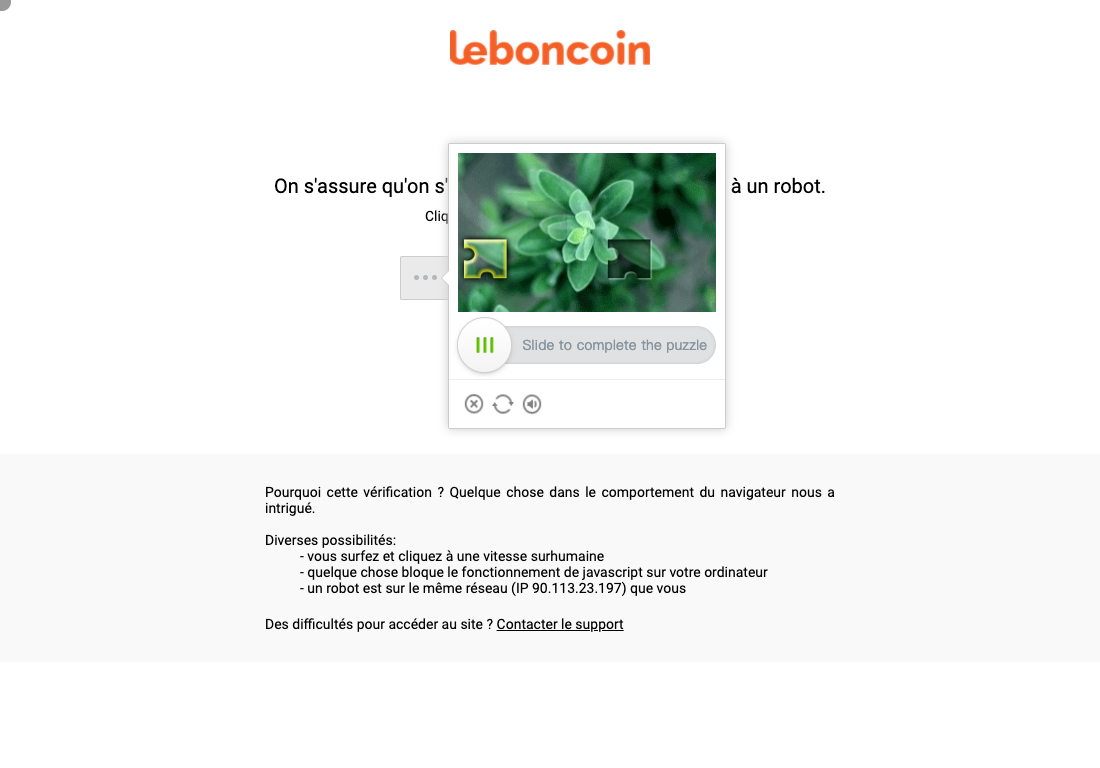
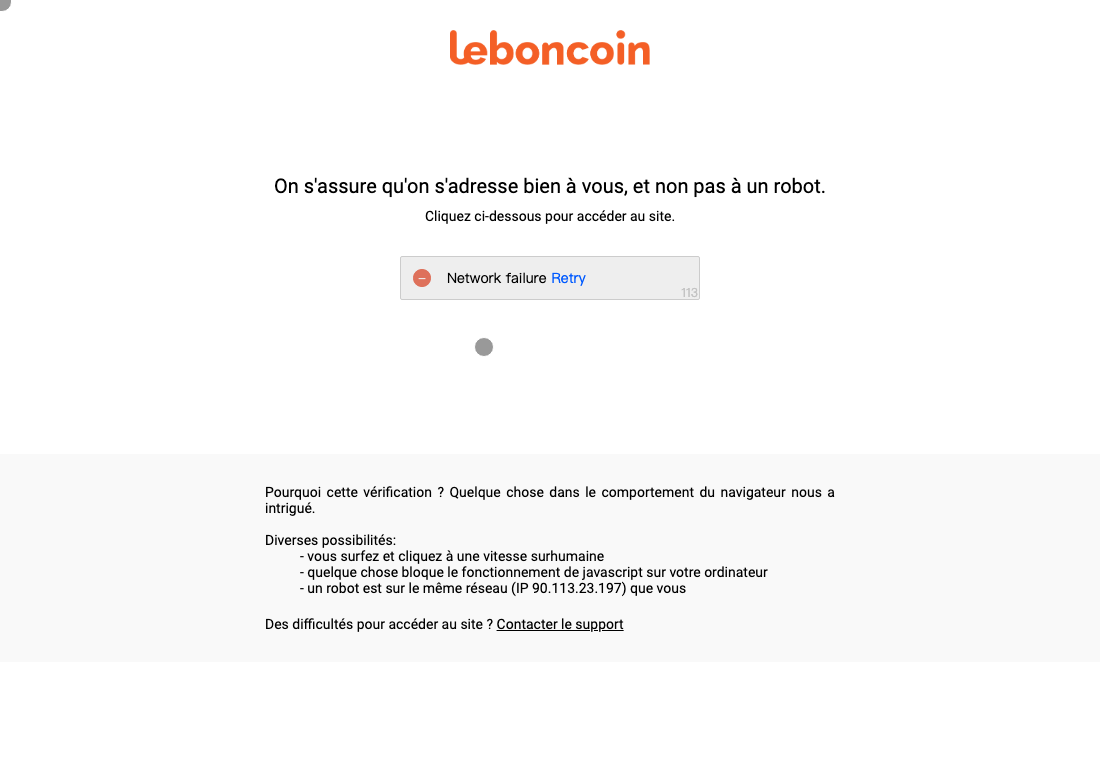
improve

Changed region(s): [[0.3709, 0.1875, 0.68, 0.5625], [0.5564, 0.0625, 0.5873, 0.0938], [0.4327, 0.0625, 0.4636, 0.0938]]

diff --git a/utils/captcha.js b/utils/captcha.js
@@ -21,6 +21,9 @@ function captchaNeedSlide(frame) {
                 }
                 await resolve(true)
             })
+            .catch((e) => {
+                resolve (false)
+            })
     })
 }
 
@@ -28,6 +31,7 @@ async function resolveCaptcha(page, cursor) {
     console.log("inResolveCatpcha")
 
     while (!(await page.$('#didomi-notice-disagree-button'))) {
+        console.log("in !(await page.$('#didomi-notice-disagree-button')) WHILE")
         await page.waitForTimeout(3500)
 
         const elementHandle = await page.$('iframe')
